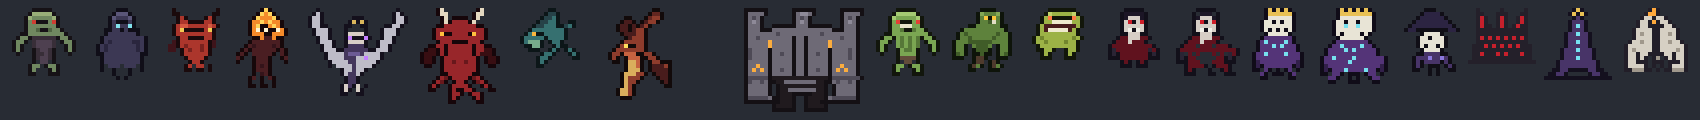
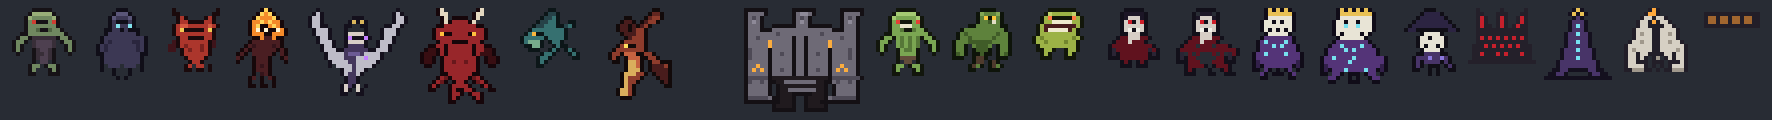
M14-I: вода и болото (v1.10.0, issue #3 I): болотный тайл карты мира (цена 2.5 — замедление, камыши) + болотная зона города у воды (герой ×0.7); жаба в фауне болот; данж-биом Болотная топь (7-й биом, босс брудмать); лодка (крафт мастерская) делает воду проходимой — путь через озёра короче; мост (дер

diff --git a/tools/make_bestiary.py b/tools/make_bestiary.py
@@ -654,6 +654,23 @@ TEMPLE = [
 " kkgggkk k kkgggk ",
 ]
 
+
+# ------------------------------------------------- M14-I: мост ---------------
+
+PAL_BRIDGE = {
+    "b": P(90, 61, 47),
+    "w": P(161, 102, 47),
+    "k": P(34, 30, 40),
+}
+
+BRIDGE = [
+    "................",
+    ".kkkkkkkkkkkkkk.",
+    ".kwwkwwkwwkwwkk.",
+    ".kwwkwwkwwkwwkk.",
+    ".kkkkkkkkkkkkkk.",
+]
+
 # ------------------------------------------------------------- сборка --------
 
 # (имя, сетка, палитра, папка)
@@ -678,6 +695,7 @@ SPRITES = [
     ("vampire_keep", VAMPIRE_KEEP, PAL_VKEEP, BLD),
     ("lich_tower", LICH_TOWER, PAL_LTOWER, BLD),
     ("temple", TEMPLE, PAL_TEMPLE, BLD),
+    ("bridge", BRIDGE, PAL_BRIDGE, BLD),
 ]
 
 

diff --git a/CHANGELOG_M14.md b/CHANGELOG_M14.md
@@ -424,3 +424,28 @@ data/residents.json -> "v3", пул целей — "goals".
   (≥60) останавливает их осады**; заказы фракций доступны от 40 (используется
   частью K).
 - [M14-H] ~35 проверок (всего 2050).
+
+## Часть I — Вода и болото (v1.10.0, 2026-10-20)
+
+### Болото (I.1)
+- Новый тайл карты мира: тина с камышами, цена тайла 2.5 (замедление пути).
+- Город: тайлы у воды — «влажная низина»: герой вязнет (скорость ×0.7),
+  там же горят болотные огоньки (часть C).
+- Фауна: **жаба** на болотах (охота по E). Данж-биом **Болотная топь**
+  (swamp_mire): сплюны/ползуны/крысы, босс Брудмать; болотные аномалии
+  появляются на карте мира (7-й биом данжей).
+
+### Вода (I.2)
+- Реки/озёра уже были преградами; **лодка** (крафт в мастерской: дерево 6 +
+  железо 1) делает воду проходимой — прямой путь через озёра, дни пути
+  короче. Рыба — устоявшийся ресурс (пирс, рыбалка M14-C).
+
+### Мост (I.2/I.3)
+- Новое здание **Мост** (дерево 4): единственная постройка НА воде,
+  соединяет берега (тайл становится проходимым, коллизии не блокируют),
+  летопись «Горожане навели мост».
+
+### Маунт (I.4, слот из части B)
+- **Лошадь** (крафт в оружейке: дерево 4 + еда 6) надевается в слот
+  «Ездовое» — дни пути короче (скорость ×1.5).
+- [M14-I] ~20 проверок (всего 2070).

diff --git a/PLAN.md b/PLAN.md
@@ -187,7 +187,7 @@
 
 ## Этап M14 — Большой этап M14 (issue #3 от 2026-10-19: «Делаем М14 и другие исправления») — ПЛАН: 12 частей A–L, каждая часть — отдельная играбельная сборка (exe в build/) + запись в CHANGELOG_M14.md, заказчик принимает ПО ПОРЯДКУ A → B → C → D → E → F → G → H → I → J → K → L
 
-**Статус:** A–G выполнены; H выполнена (v1.9.2); дальше I–L в работе.
+**Статус:** A–H выполнены; I выполнена (v1.10.0); дальше J–L в работе.
 
 **Реестр 25 исходных задач issue #3 (T01–T25) — статусы на 2026-10-19:**
 
